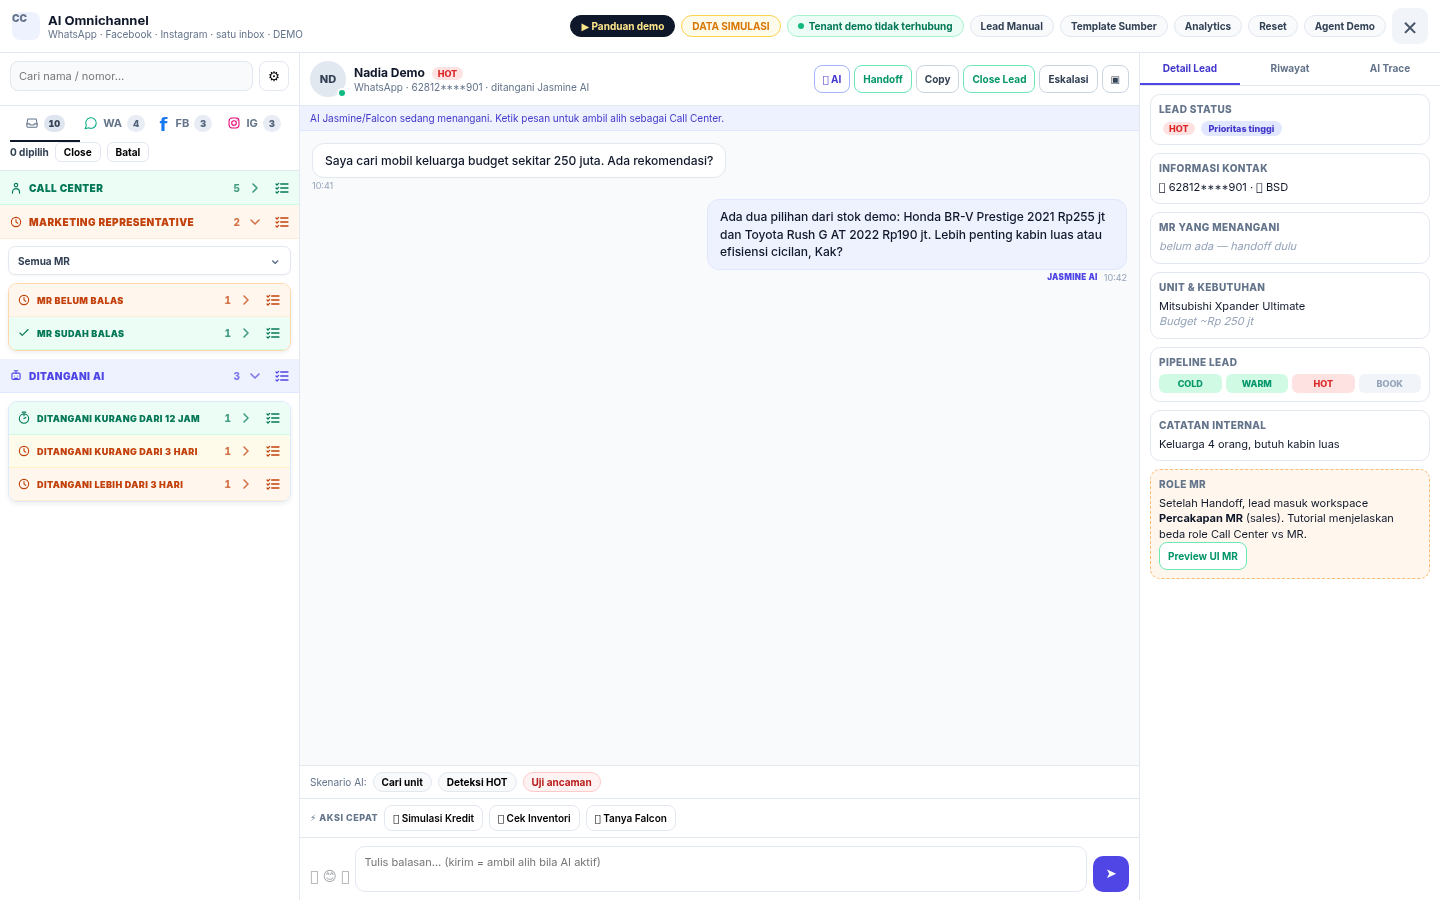
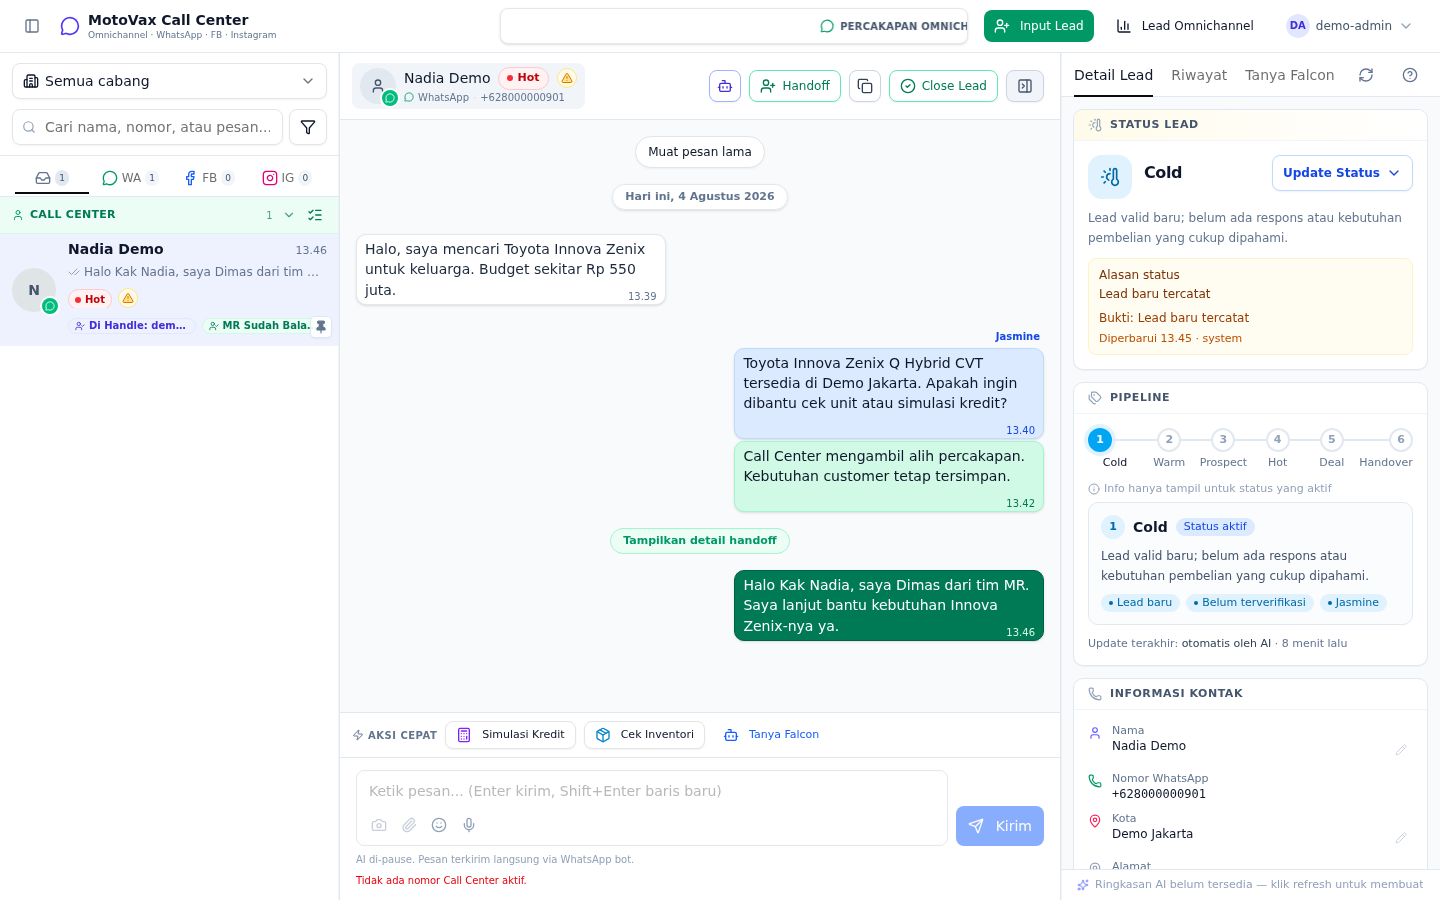
Gunakan capture langsung aplikasi produksi

diff --git a/fitur/feature-page.js b/fitur/feature-page.js
@@ -588,7 +588,7 @@
     } else if (matches(/handoff|takeover|eskalasi/i)) {
       preview = captured("omnichannel-handoff-public.png", "Call Center · Handoff ke MR", "Agent memilih MR, alasan, dan catatan sebelum menyerahkan lead.");
     } else if (matches(/aksi cepat|inventori|stok akurat|konteks stok|unit ready/i)) {
-      preview = captured("omnichannel-inventory-public.png", "Call Center · Cek Inventori", "Unit ready dapat dicari, dihitung kreditnya, lalu dibagikan ke conversation.", [1851, 849]);
+      preview = captured("omnichannel-inventory-public.png", "Manajemen Unit · Inventori", "Unit demo tampil langsung dari Manajemen Unit pada aplikasi produksi.");
     } else if (matches(/performa omnichannel|manajemen-sla|metrik channel|respons realtime|realtime sse/i)) {
       preview = /realtime sse/i.test(capabilityTitle)
         ? captured("omnichannel-realtime-public.png", "Call Center · SSE realtime aktif", "Status koneksi realtime dan perubahan conversation terlihat dalam satu workspace.")
@@ -603,7 +603,7 @@
       } else if (matches(/konten dari stok|konten stok/i)) {
         preview = captured("product-social-studio.png", "Content Studio", "Konten campaign disusun dari data unit dan inventori.");
       } else {
-        preview = captured("product-social-broadcast.png", "WhatsApp Broadcast Terukur", "Audiens, pesan personal, jadwal, dan ringkasan pengiriman tampil jelas.");
+        preview = captured("product-social-broadcast.png", "CRM · Campaign", "Program campaign dan tindak lanjut tampil langsung dari aplikasi produksi.");
       }
     } else if (matches(/goal|report|scorecard|dashboard|kpi|cabang|lokasi|analytics|motovax-360/i)) {
       if (matches(/channel|omnichannel/i)) {
@@ -613,11 +613,11 @@
       } else if (matches(/sales|scorecard|konversi/i)) {
         preview = captured("product-dashboard-sales.png", "Dashboard · Sales Performance", "KPI pipeline, konversi, dan performa sales terlihat bersama.");
       } else {
-        preview = captured("product-dashboard-overview.png", "Dashboard · Executive Overview", "KPI utama dan forecast bisnis tersedia dalam ringkasan eksekutif.");
+        preview = captured("product-dashboard-overview.png", "Dashboard · Operasional", "KPI unit, cabang, dan penjualan tampil langsung dari dashboard produksi.");
       }
     } else if (matches(/crm|deal|kontak|gps|sales suite|customer database|pipeline|follow|guideline|salespeople/i)) {
       if (matches(/follow/i)) {
-        preview = captured("product-crm-auto-follow.png", "CRM · Auto Follow Customer", "Daftar tindak lanjut membantu sales memprioritaskan customer.");
+        preview = captured("product-crm-auto-follow.png", "CRM · Campaign & Follow-up", "Program campaign membantu tim mengelola tindak lanjut customer.");
       } else if (matches(/guideline|panduan/i)) {
         preview = captured("product-crm-panduan.png", "CRM · Guideline", "Panduan kerja dapat diakses langsung dari workspace CRM.");
       } else if (matches(/customer|kontak|gps|salespeople/i)) {
@@ -627,12 +627,12 @@
       }
     } else if (matches(/agentic-ai|chatbot|falcon|ai sales|tool-rich agent|native tools|multi-peran|permission aware|knowledge|web/i)) {
       preview = matches(/management|laporan|aging|gp|permission|knowledge|web/i)
-        ? captured("product-falcon-management.png", "Falcon · Management Agent", "Management Agent menyediakan tool laporan, aging, margin, dan analytics.")
-        : captured("product-falcon-sales.png", "Falcon · Sales Agent", "Sales Agent menjawab stok, foto, kredit, dan kebutuhan lead.");
+        ? captured("product-falcon-management.png", "Analytics · Management", "Laporan dan tren operasional terlihat langsung pada aplikasi produksi.")
+        : captured("product-falcon-sales.png", "Call Center · AI / Agent / MR", "Jejak AI, takeover agent, dan tindak lanjut MR terlihat pada aplikasi produksi.");
     } else if (matches(/whatsapp|session|flows|tool schema|governance|brand trust/i)) {
       preview = captured("product-capability-whatsapp.png", "WhatsApp Business API", "Konfigurasi channel dan capability WhatsApp terlihat dalam workspace produk.");
     } else if (matches(/automasi|workflow|workers|tool chains/i)) {
-      preview = captured("product-capability-automation.png", "Automation Workflow", "Trigger dan aksi otomasi tersusun sebagai alur kerja yang dapat dipantau.");
+      preview = captured("product-capability-automation.png", "Automation · Email Report", "Konfigurasi report otomatis terlihat langsung pada aplikasi produksi.");
     } else {
       preview = captured("product-dashboard-overview.png", "Motovax · Executive Overview", "Ringkasan operasional produk tersedia dalam satu dashboard.");
     }
